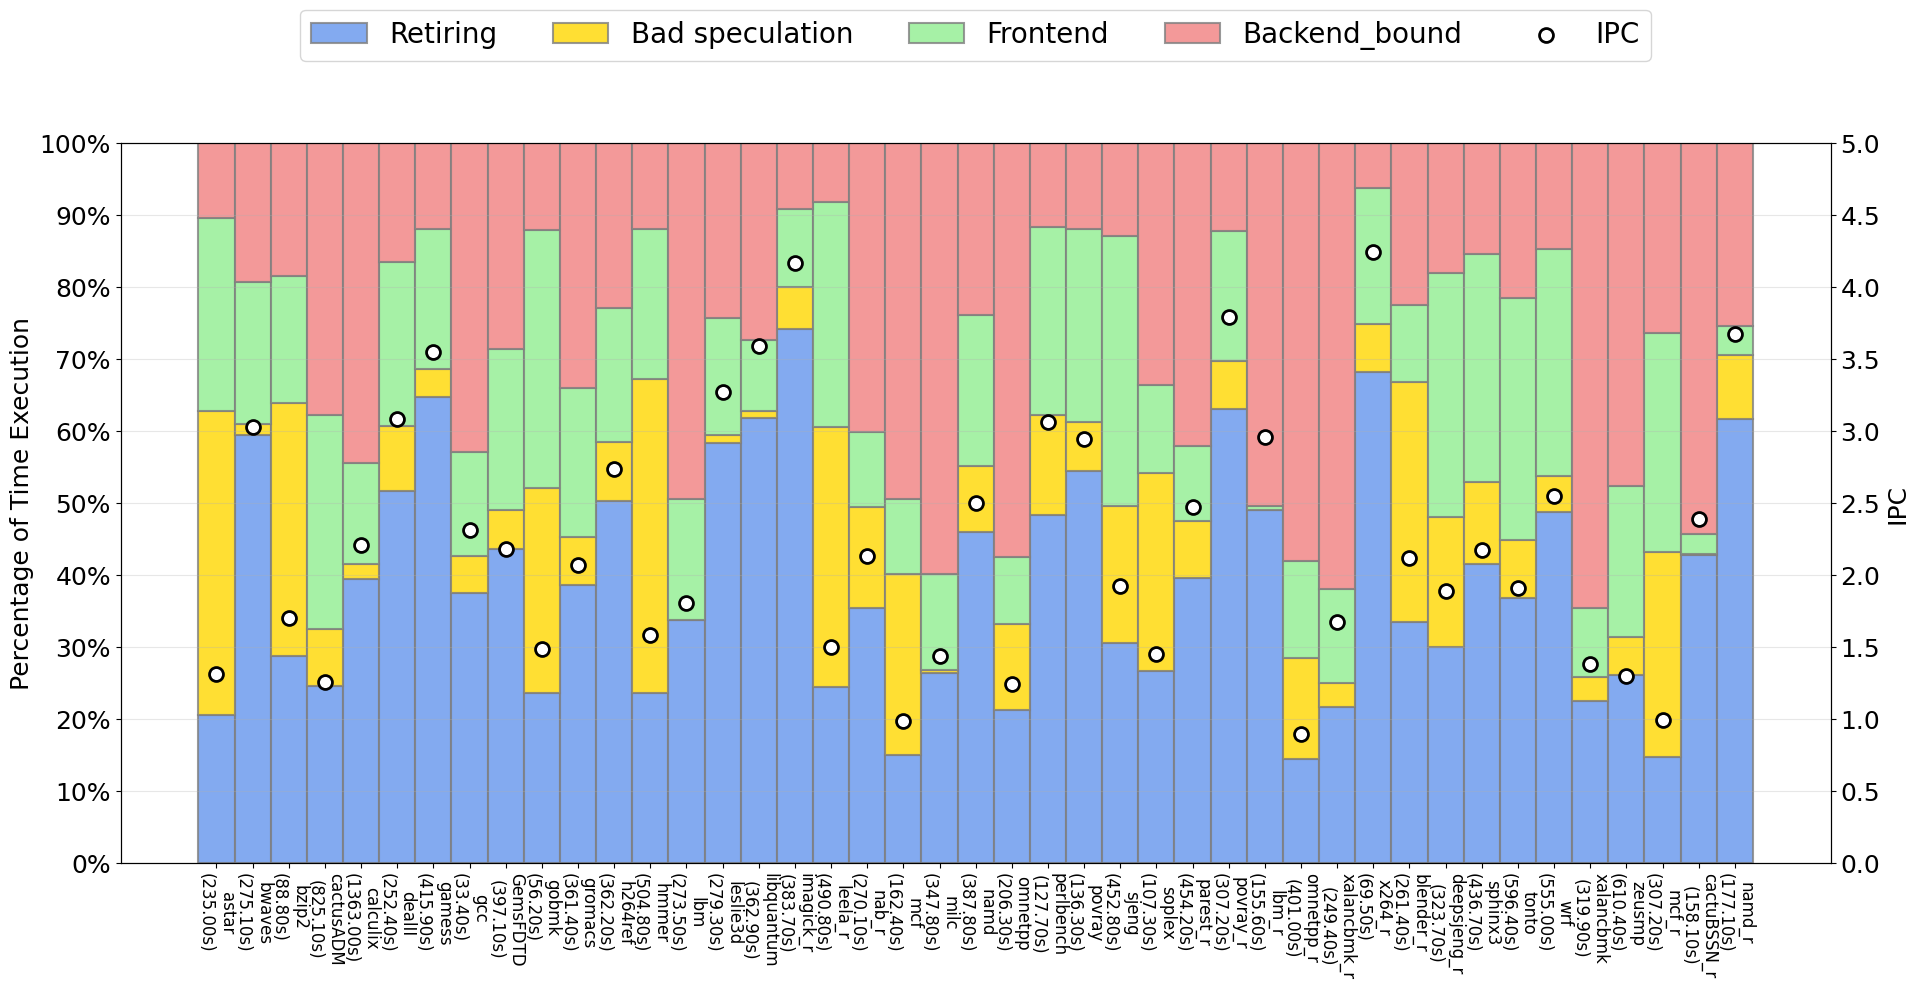
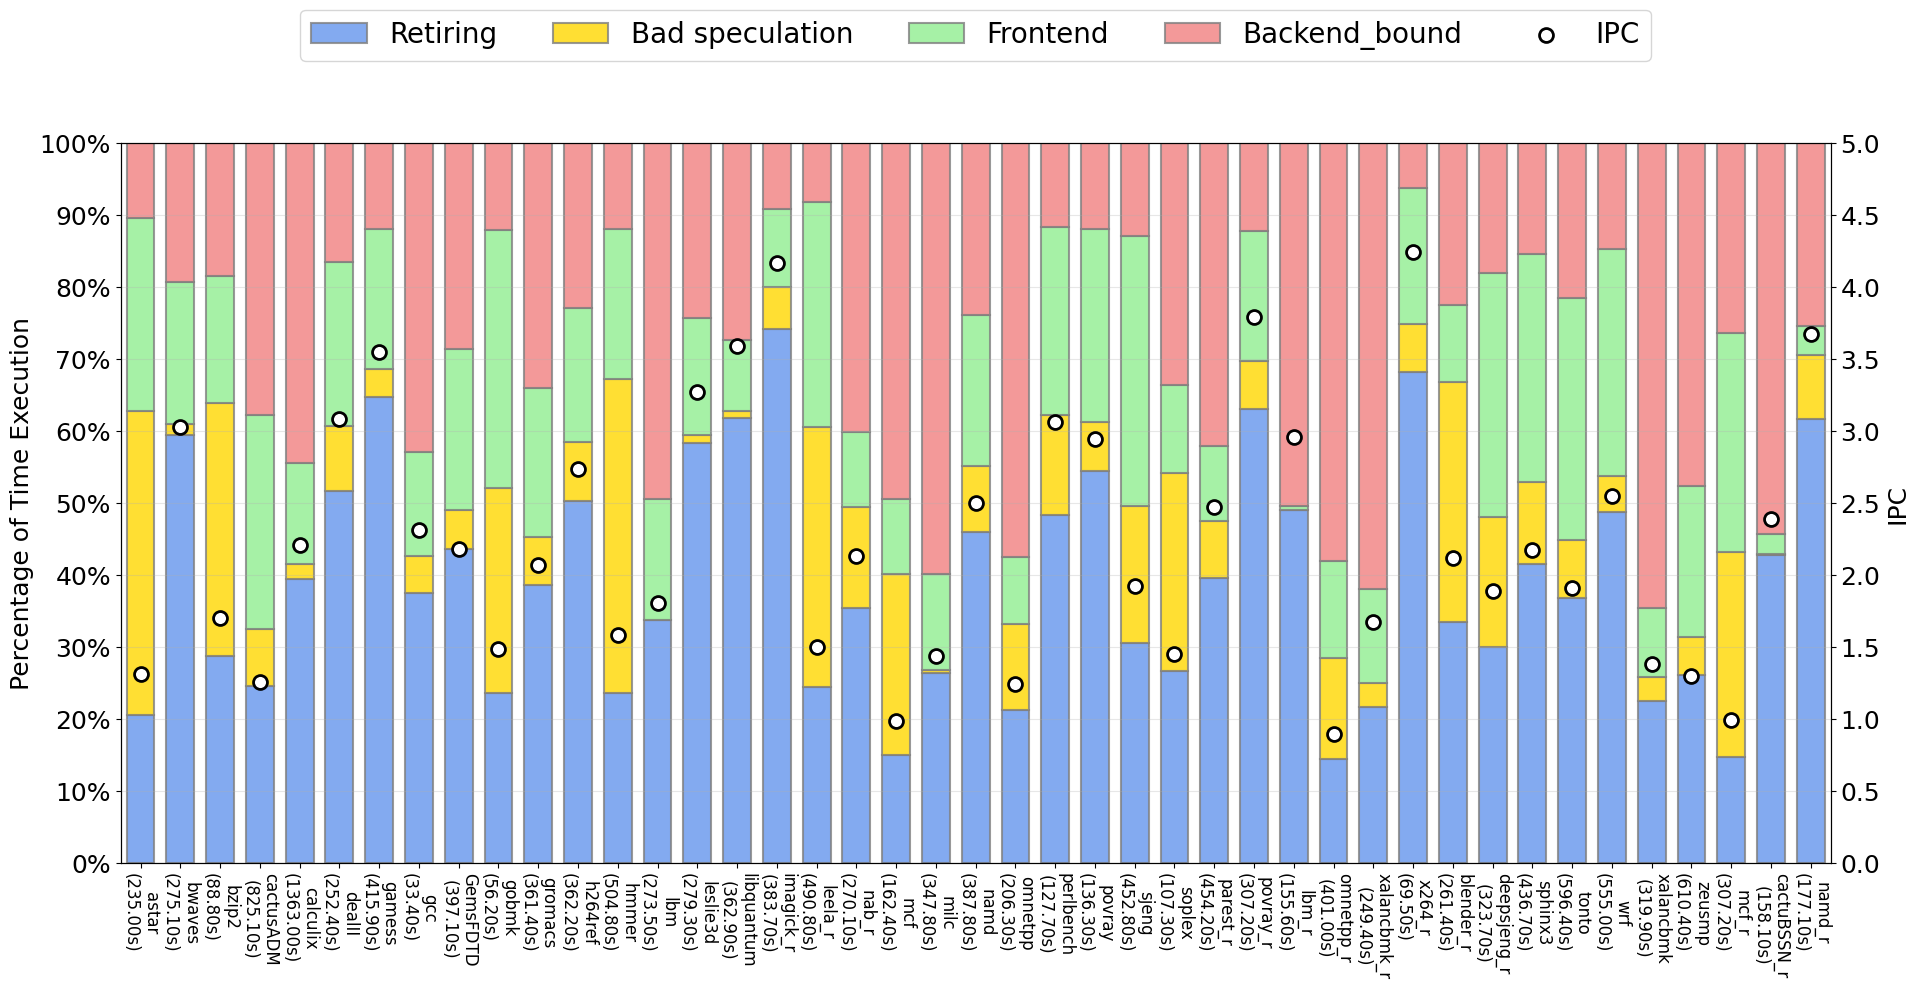
hbe

diff --git a/graficar_topdown_all.py b/graficar_topdown_all.py
@@ -108,7 +108,7 @@ def main():
         fig, ax1 = plt.subplots(figsize=(19, 9))
         
         x_pos = np.arange(len(app_names))
-        width = 1.0
+        width = 0.7
         
         # Colores para las barras
         color_map = ["cornflowerblue", "gold", "lightgreen", "lightcoral", "crimson"]
